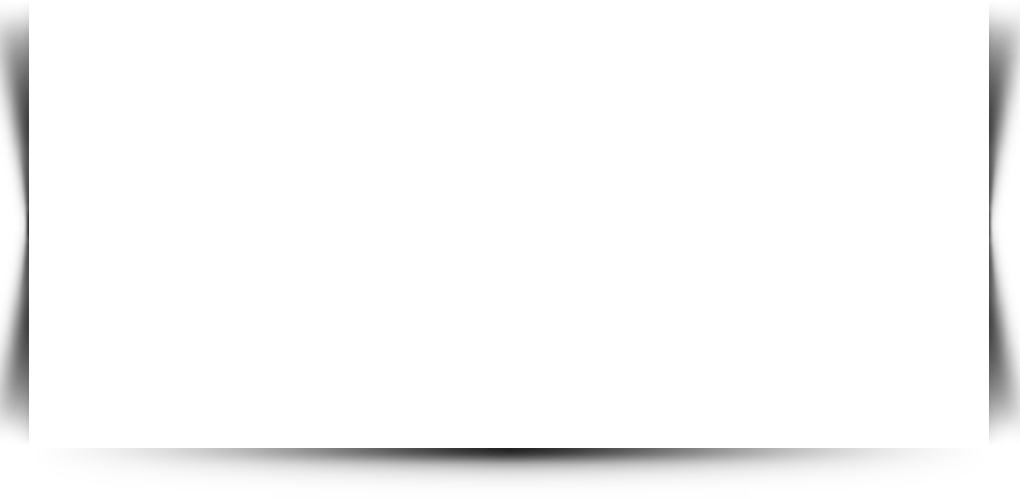
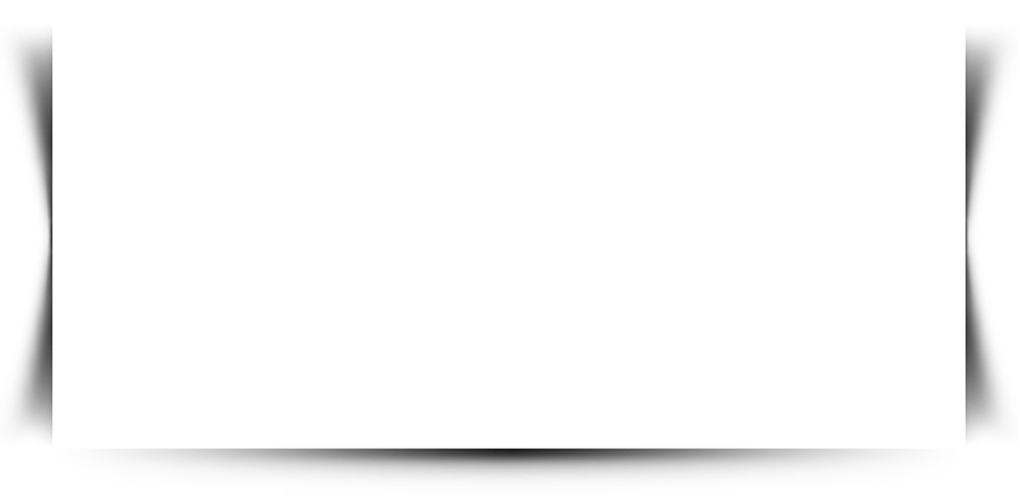
Working the CSS

Changed region(s): [[0.0, 0.0301, 0.0608, 0.8717], [0.9422, 0.0301, 1.0, 0.8717]]

diff --git a/app/assets/stylesheets/layout.css.scss b/app/assets/stylesheets/layout.css.scss
@@ -7,9 +7,14 @@ img {vertical-align: top}
 
 ul, ol, ul ul, ul ol, ol ol, ol ul {margin: 0; padding: 0}
 
+.container.top { background: $bg-top-page-shadow }
+
 .region {
   background: $bevel-region; padding: 40px 0 60px; overflow: hidden;
 }
+
+.region.top { background: none; }
+
 #facebook.region {background: none; padding:0 0 60px}
   #slider.region {
     padding-top: 0;
@@ -71,6 +76,7 @@ footer {
     .rsArrowRight .rsArrowIcn {background-position: -98px -181px; left: auto; right: 10px }
   }
   .rsDefault.rsHor {
+    .rsOverflow { }// background: $bevel-region; }
     .rsBullets {background: none; bottom: -30px; overflow: visible;
       .rsBullet {
         @include inline-block;  border-radius: 0; margin: 0; background: $gray;
@@ -233,7 +239,7 @@ form {
   }
 }
   .sub-label {
-    text-align: right; color: $black; font-size: 12px; text-transform: uppercase;
+    text-align: right; color: $black; font-size: 11px; text-transform: uppercase; margin-bottom: 2px;
   }
 
 
@@ -261,6 +267,7 @@ p {
         overflow: hidden;
       }
       .button {
+        font-size: 14px;
         width: 176px; top: -50px;
         position: relative; left: -10px; margin-top: 10px; opacity: 0; *filter: alpha(opacity=0);
       -moz-transition: all 0.3s cubic-bezier(0.470, 0.000, 0.745, 0.715); -webkit-transition: all 0.3s ease-out;
@@ -281,15 +288,17 @@ p {
   }
 }
 
-article {background: gray; margin-bottom: 10px; width: 950px;
-  .inner {padding-bottom: 10px}
+article { margin-bottom: 10px; // width: 950px;
+  .inner {background: $cyan; padding-bottom: 10px}
 
 
   h3, h2 span, p {
     color: white; text-align: left; font-weight: 200;
   }
   header {
+    color: white;
     height: auto;
+    background: $cyan;
     border-bottom: 1px solid white; line-height: 125%;
     padding: 15px 15px 7px; font-size: 20px; text-transform: uppercase;
   }
@@ -302,10 +311,23 @@ article {background: gray; margin-bottom: 10px; width: 950px;
   }
 
   &.region {
-  background: $cyan; padding: 0;
+    // background: $cyan; padding: 0;
   }
+  figure {
+    img { margin-top: 10px; }
+  }
+  section {
+    iframe { margin-top: 10px; }
+    .autor { color: white; text-align: right; background: gray; padding: 10px; margin-top: 10px; }
+  }
+
 }
 
+a.btn  {
+    padding: 10px 20px; text-align: center; background: $cyan; color: white; @include inline-block; font-size: 18px;
+    font-weight: lighter;
+    float: right;
+  }
 
 h2.dia {display: none}
 
@@ -347,4 +369,4 @@ body .rsDefault .rsCloseVideoIcn {background: url('/javascripts/libs/royal-slide
 position: absolute; top: 30px; right: 0; }
 
 #radio-online span {position: absolute; top: 30px; right: 80px; font-style: italic}
-#radio-online-link {width: 75px; height: 75px;background: url(/assets/backgrounds/play-button.png) no-repeat; display: block; float: right}
+#radio-online-link {width: 75px; height: 75px; background: url(/assets/backgrounds/play-button.png) no-repeat; display: block; float: right}

diff --git a/app/assets/stylesheets/_variables.css.scss b/app/assets/stylesheets/_variables.css.scss
@@ -5,7 +5,8 @@ $bg-footer:                       url(backgrounds/bg-footer-top.jpg) no-repeat c
 $bg-footer-inner:                 none;
 $bg-postscript-bottom:            url(backgrounds/bg-postscript-bottom.jpg) repeat;
 $bg-postscript-bottom-inner:      url(backgrounds/bg-postscript-bottom-inner.jpg) no-repeat center -33px;
-$bg-slider:                       transparent; //url(backgrounds/bg-slider.png) no-repeat 50% 210px;
+$bg-slider:                       url(backgrounds/bg-slider.png) no-repeat 50% 207px;
+$bg-top-page-shadow:              url(backgrounds/bg-top-page-shadow.png) no-repeat center top;
 $multiple:                        url(backgrounds/multiple.png) no-repeat;
 $bevel-vertical:                  url(backgrounds/bevel-1.jpg) no-repeat 100% 50%;
 $bevel-region:                    url(backgrounds/bevel-region.png) no-repeat 50% 0%;
